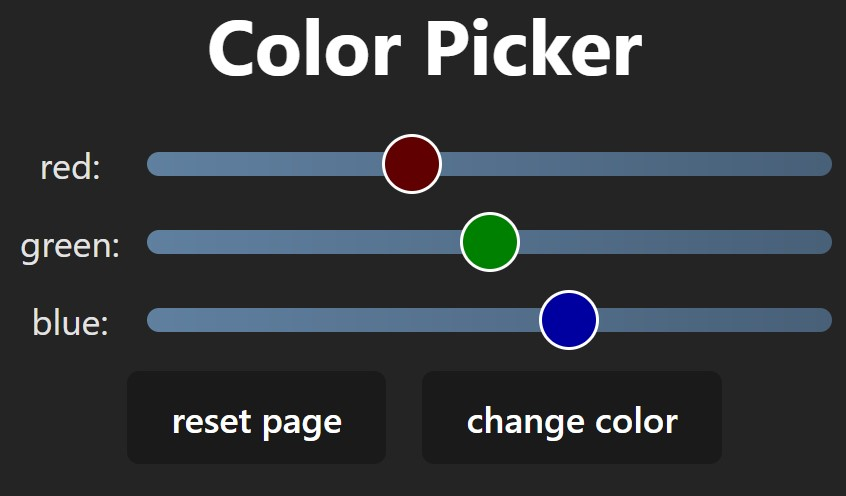
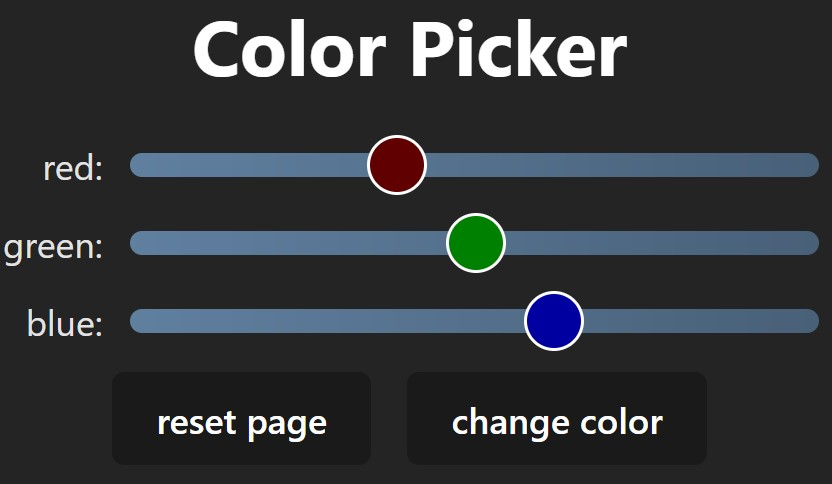
update

diff --git a/src/components/ColorSliders.module.css b/src/components/ColorSliders.module.css
@@ -2,7 +2,7 @@
     display: grid;
     grid-template-columns: auto minmax(auto, 800px);
     align-items: center;
-    justify-content: center;
+    text-align: right;
     gap: 1em;
 }
 .colors__label {
